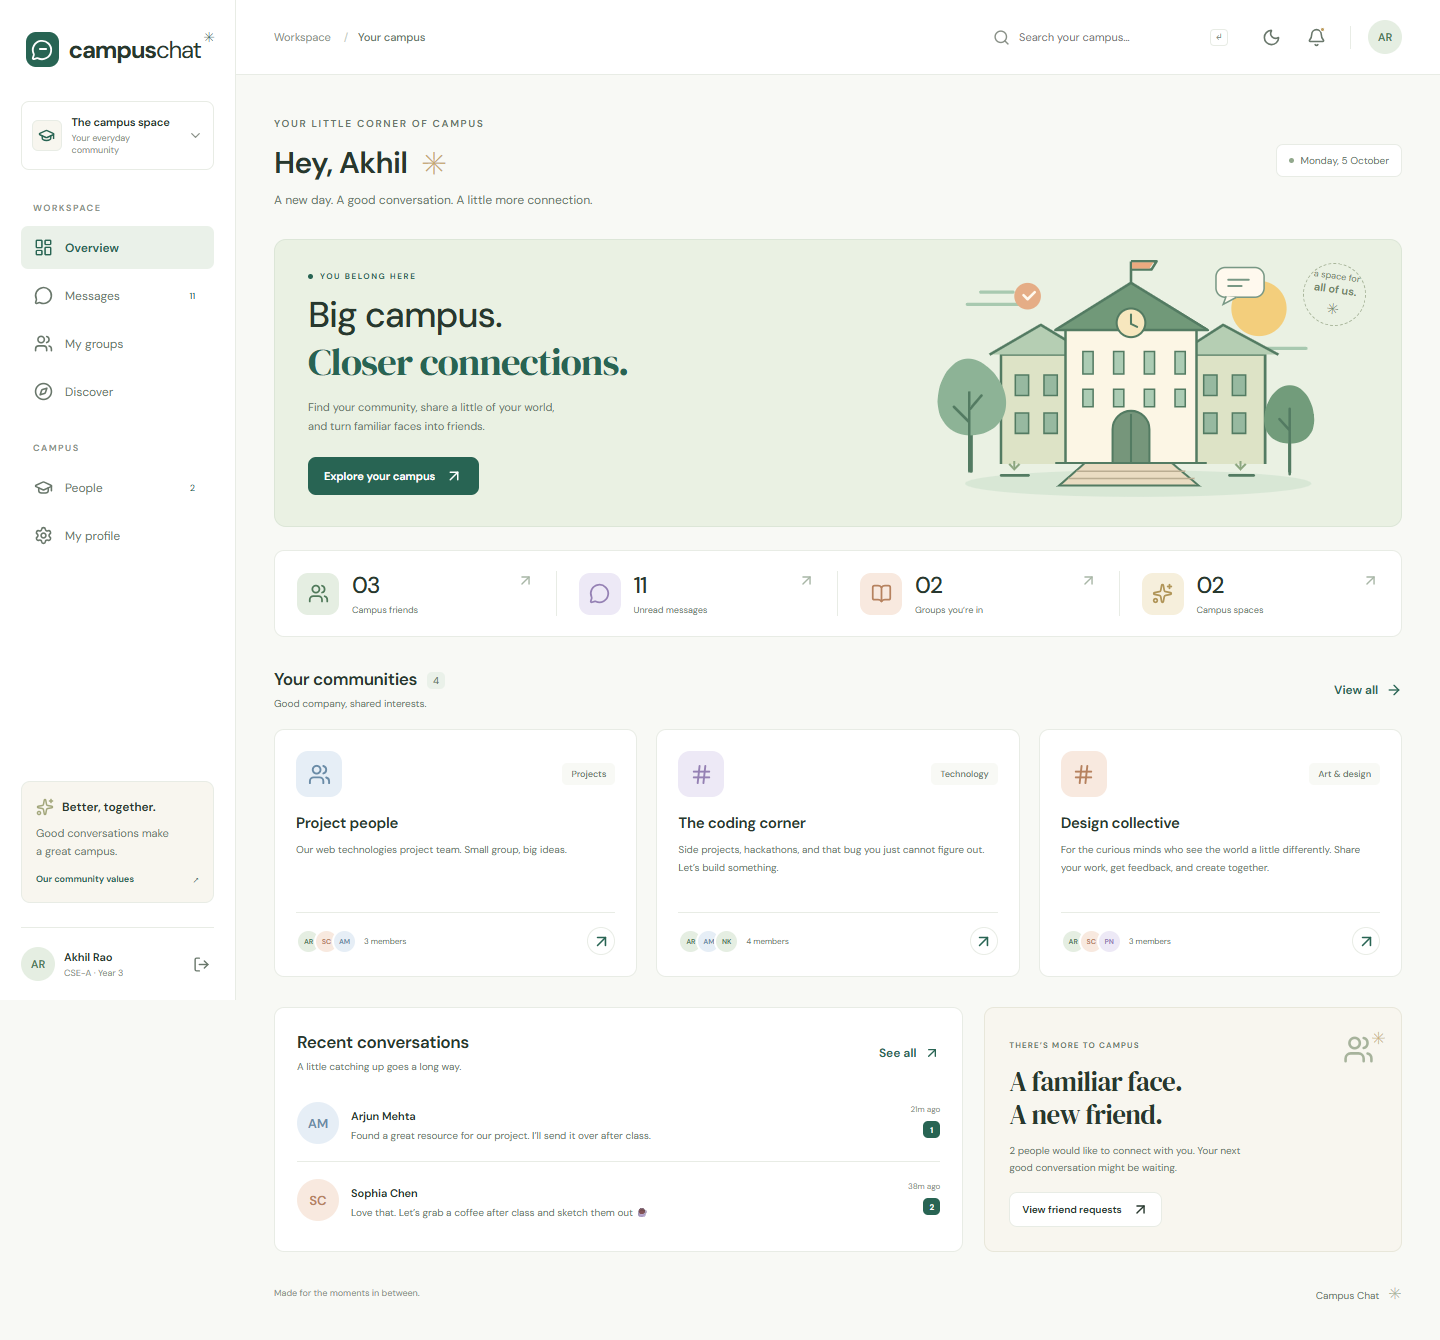
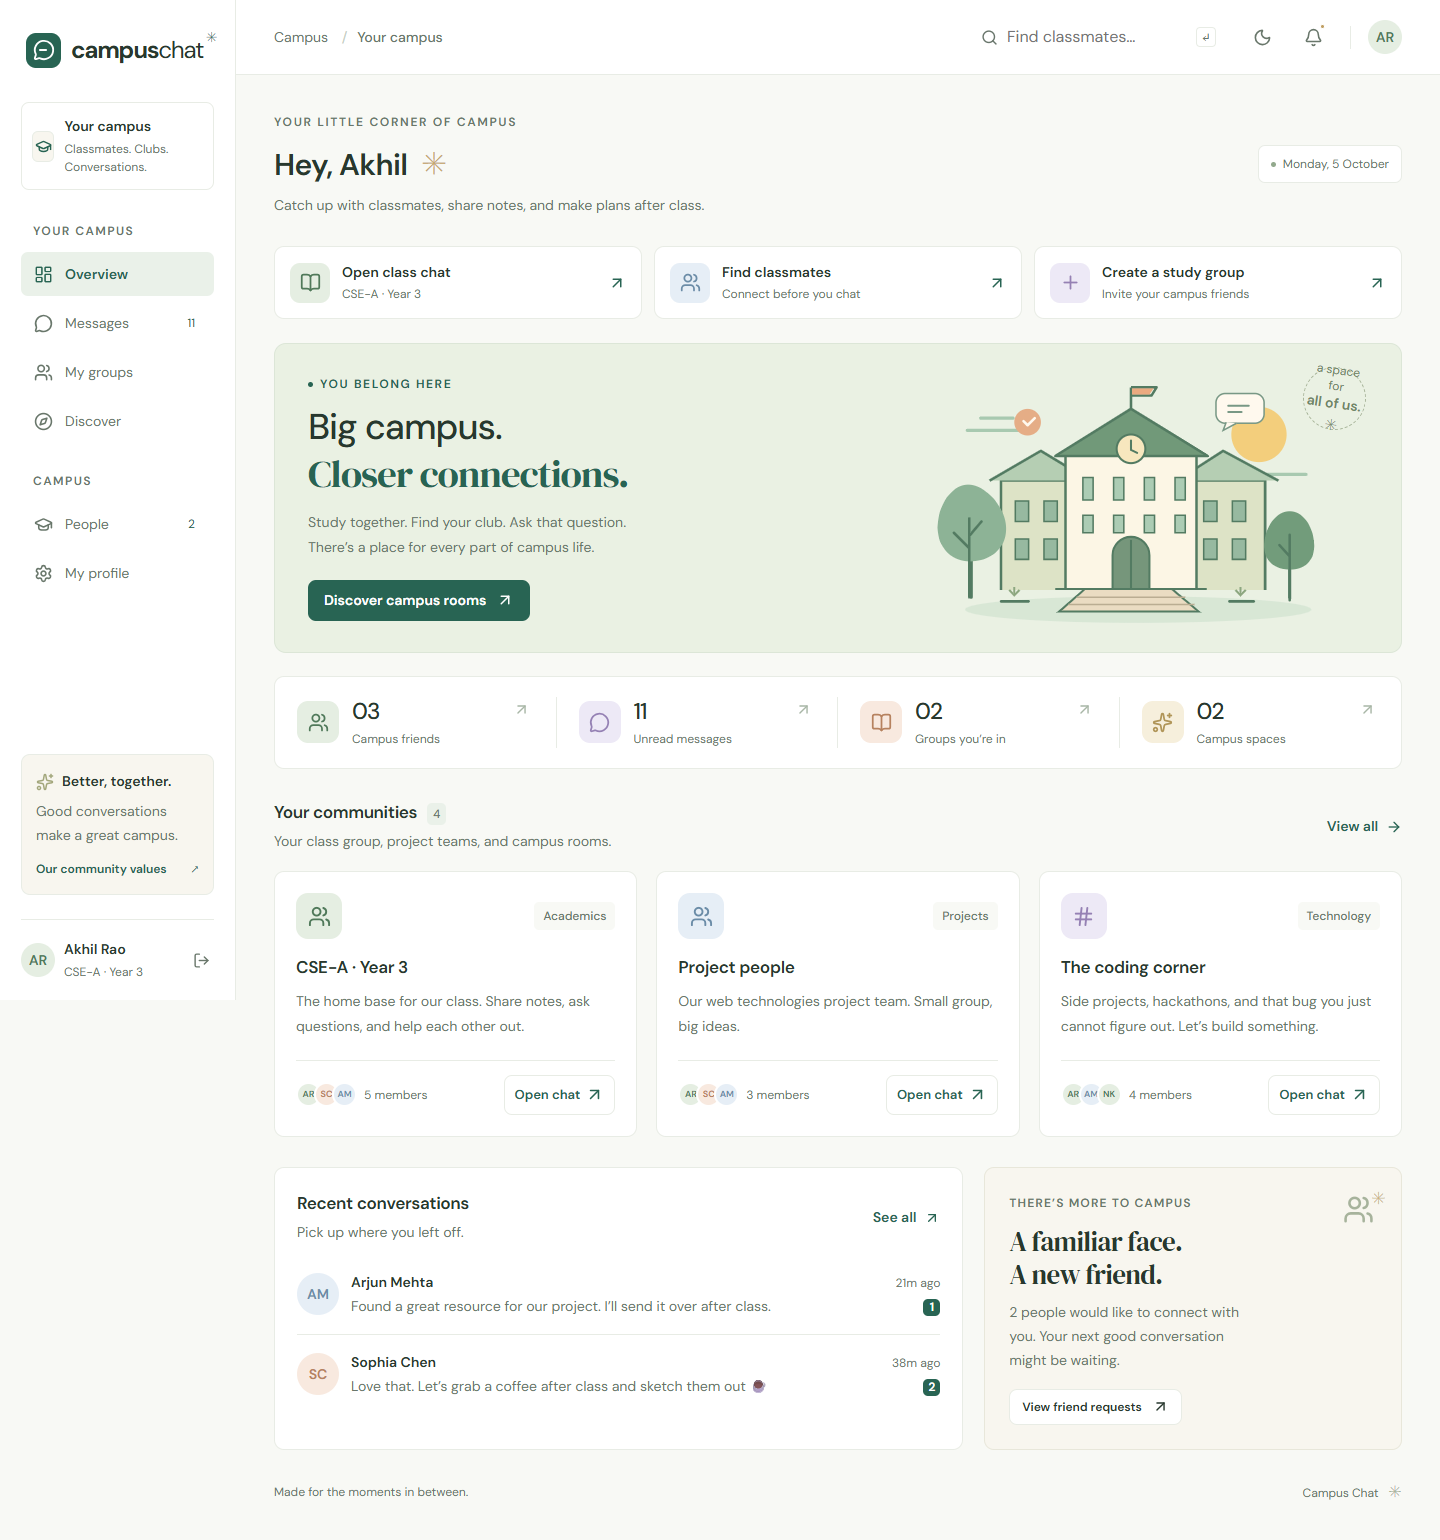
test: verify student journeys and document desktop and phone visual review

diff --git a/tests/e2e/campus.test.js b/tests/e2e/campus.test.js
@@ -20,7 +20,7 @@ test('student campus flows work on desktop and mobile without page errors or hor
   await demo(page);
   await expect(page.getByRole('heading', { name: 'Your communities' })).toBeVisible();
   await page.getByRole('link', { name: 'Discover', exact: true }).click();
-  await expect(page.getByRole('heading', { name: 'There’s a place for you.' })).toBeVisible();
+  await expect(page.getByRole('heading', { name: 'Discover campus rooms.' })).toBeVisible();
   const reading = page
     .locator('article')
     .filter({ has: page.getByRole('heading', { name: 'The reading room' }) });
@@ -129,6 +129,70 @@ test('new student registration joins the correct class and private community cre
   await page.reload();
   await expect(page.getByRole('heading', { name, exact: true })).toBeVisible();
 });
+test('live messages preserve a study group draft and Escape closes only the top dialog', async ({
+  browser,
+}) => {
+  const first = await browser.newContext();
+  const second = await browser.newContext();
+  const student = await first.newPage();
+  const friend = await second.newPage();
+  await demo(student);
+  await expect(student.locator('.community-card').first()).toBeVisible();
+  const unread = student.locator('.nav-item[href="/messages"] .nav-badge');
+  const count = (await unread.count()) ? Number(await unread.textContent()) : 0;
+  await student.getByRole('button', { name: /Create a study group/ }).click();
+  await expect(student.getByRole('button', { name: /Private group/ })).toHaveClass(/selected/);
+  const name = `Revision draft ${Date.now()}`;
+  const input = student.getByLabel('Space name');
+  await input.pressSequentially(name);
+  await friend.goto('/login');
+  await friend.getByLabel('College email').fill('sophia@college.edu');
+  await friend.getByLabel('Password', { exact: true }).fill('CampusDemo!2026');
+  await friend.getByRole('button', { name: 'Sign in', exact: true }).click();
+  await friend.getByRole('link', { name: /Akhil Rao/ }).click();
+  await friend
+    .getByRole('textbox', { name: 'Write a message' })
+    .fill('I can bring my revision notes.');
+  await friend.getByRole('button', { name: 'Send message', exact: true }).click();
+  await expect(unread).toHaveText(String(count + 1));
+  await expect(input).toBeFocused();
+  await expect(input).toHaveValue(name);
+  await student.getByRole('button', { name: 'Create my space' }).click();
+  await expect(student.getByRole('heading', { name, exact: true })).toBeVisible();
+  await student.evaluate(() => {
+    window.campusHeaderChanges = [];
+    const header = document.querySelector('.chat-header');
+    new MutationObserver(() => window.campusHeaderChanges.push(header.innerText)).observe(header, {
+      childList: true,
+      characterData: true,
+      subtree: true,
+    });
+  });
+  await student
+    .getByRole('textbox', { name: 'Write a message' })
+    .fill('Our study plan starts here.');
+  await student.getByRole('button', { name: 'Send message', exact: true }).click();
+  await expect(student.locator('.message-bubble p').last()).toHaveText(
+    'Our study plan starts here.',
+  );
+  const headerChanges = await student.evaluate(() => window.campusHeaderChanges);
+  expect(
+    headerChanges.every((header) => header.includes(name) && !header.includes('0 members')),
+  ).toBe(true);
+  await student.getByRole('button', { name: 'Conversation details' }).click();
+  await student.getByRole('button', { name: 'Leave space', exact: true }).click();
+  await expect(student.getByRole('heading', { name: 'Leave this space?' })).toBeVisible();
+  await student.keyboard.press('Escape');
+  await expect(student.getByRole('dialog')).toHaveCount(1);
+  await expect(student.getByRole('dialog', { name, exact: true })).toBeVisible();
+  await expect(student.getByRole('button', { name: 'Leave space', exact: true })).toBeFocused();
+  await student.keyboard.press('Escape');
+  await expect(student.getByRole('dialog')).toHaveCount(0);
+  await expect(student.getByRole('button', { name: 'Conversation details' })).toBeFocused();
+  await first.close();
+  await second.close();
+});
+
 test('admin can create, edit, deactivate and reactivate campus sections', async ({ page }) => {
   await demo(page, 'admin');
   await page.getByRole('link', { name: 'Administration', exact: true }).click();

diff --git a/docs/VISUAL-REVIEW.md b/docs/VISUAL-REVIEW.md
@@ -1,0 +1,57 @@
+# Student usability and visual review
+
+The app was exercised in installed Google Chrome with the real Express API, MongoDB, and Socket.IO. Browser clicks, typing, file selection, and downloads were tested, and actual rendered screenshots were inspected. All accounts and conversations used fictional demo data.
+
+## Screens and layouts
+
+Desktop and laptop layouts were reviewed at 1440 and 1280 pixels wide, with additional tablet/laptop checks at 768 and 1024 pixels. Phone layouts were checked at 320 and 390 pixels, including a reduced-height chat viewport to check that the message composer remains reachable.
+
+The main walkthrough captured 31 rendered views and checked for horizontal overflow and readable inputs. It reported zero browser page errors. Follow-up checks covered incoming friend requests, profile persistence, keyboard focus, and conversation headings.
+
+| Screen                   | Screenshot                                                            |
+| ------------------------ | --------------------------------------------------------------------- |
+| Sign in                  | [Desktop](images/login.png)                                           |
+| Home and class shortcuts | [Desktop](images/dashboard.png), [phone](images/mobile-dashboard.png) |
+| Messages                 | [Desktop](images/messages.png), [phone](images/mobile-chat.png)       |
+| Classmates and friends   | [Desktop](images/people.png)                                          |
+| Campus rooms             | [Desktop](images/discover.png)                                        |
+| Navigation               | [Phone](images/mobile-navigation.png)                                 |
+
+These screenshots show the final production build on a fresh fictional campus. The checks use Chrome viewport simulations; physical devices, Safari, and Firefox were not tested.
+
+## Student journeys
+
+- Register a student and verify the correct class group appears automatically.
+- Open class chat from the home page and send a message.
+- Find a classmate by full name, accept an incoming friend request, and message the new friend.
+- Join a campus room and inspect its members and leave confirmation.
+- Create a private study group from the home shortcut and invite accepted friends.
+- Upload revision notes, download the file through the browser, and confirm it survives a reload.
+- Exchange live messages between two student accounts, confirm anonymous sender redaction, and report a message for faculty review.
+- Save a profile, reload it, switch themes, and navigate between chat and the conversation list on a phone.
+- Exercise faculty moderation and administrative section management.
+
+## Changes prompted by the review
+
+- Class chat, classmates, and study-group creation have clear home shortcuts. Class groups appear first in home community cards.
+- Text stays readable across breakpoints; form and chat inputs use 16 px type. Primary phone controls have larger touch targets.
+- Joined community cards show an explicit **Open chat** action.
+- Creating from My groups or the study shortcut defaults to a private group, with friend invitations.
+- Phone navigation includes a visible close button, keyboard dismissal, focus containment, and an accessible sign-out action.
+- Live message updates preserve focus and draft text while a student names a study group.
+- Escape dismisses the top confirmation and restores focus to the underlying dialog.
+- A chat retains its resolved title and member information while conversation data refreshes.
+
+## Verification
+
+The React production build succeeded. All 14 MongoDB integration tests and all 5 browser workflows passed. The browser suite includes a regression check for a live message arriving during study-group creation, nested dialog dismissal, and preserving a new chat's heading after sending.
+
+To run the maintained checks:
+
+```sh
+npm run build
+npm test
+# Set PLAYWRIGHT_CHANNEL=chrome to use installed Chrome.
+npm run test:e2e
+npm run format:check
+```

diff --git a/README.md b/README.md
@@ -2,9 +2,11 @@
 
 **Your campus. Your people. Your space.**
 
-A complete MERN rebuild of the original PHP/XAMPP Campus Chat project. Class groups, campus communities, and friends-only messaging come together in a responsive React workspace with a warm green palette, custom campus illustrations, and light and dark themes.
+A complete MERN rebuild of the original PHP/XAMPP Campus Chat project. Class groups, campus communities, and friends-only messaging come together in a responsive React app designed for students, with a warm green palette, custom campus illustrations, and light and dark themes.
 
 ![Campus Chat dashboard](docs/images/dashboard.png)
+
+The home page puts class chat, finding classmates, and creating a study group within easy reach. See the [student usability review and desktop/phone screenshots](docs/VISUAL-REVIEW.md) for browser validation.
 
 ## Run the demo
 
